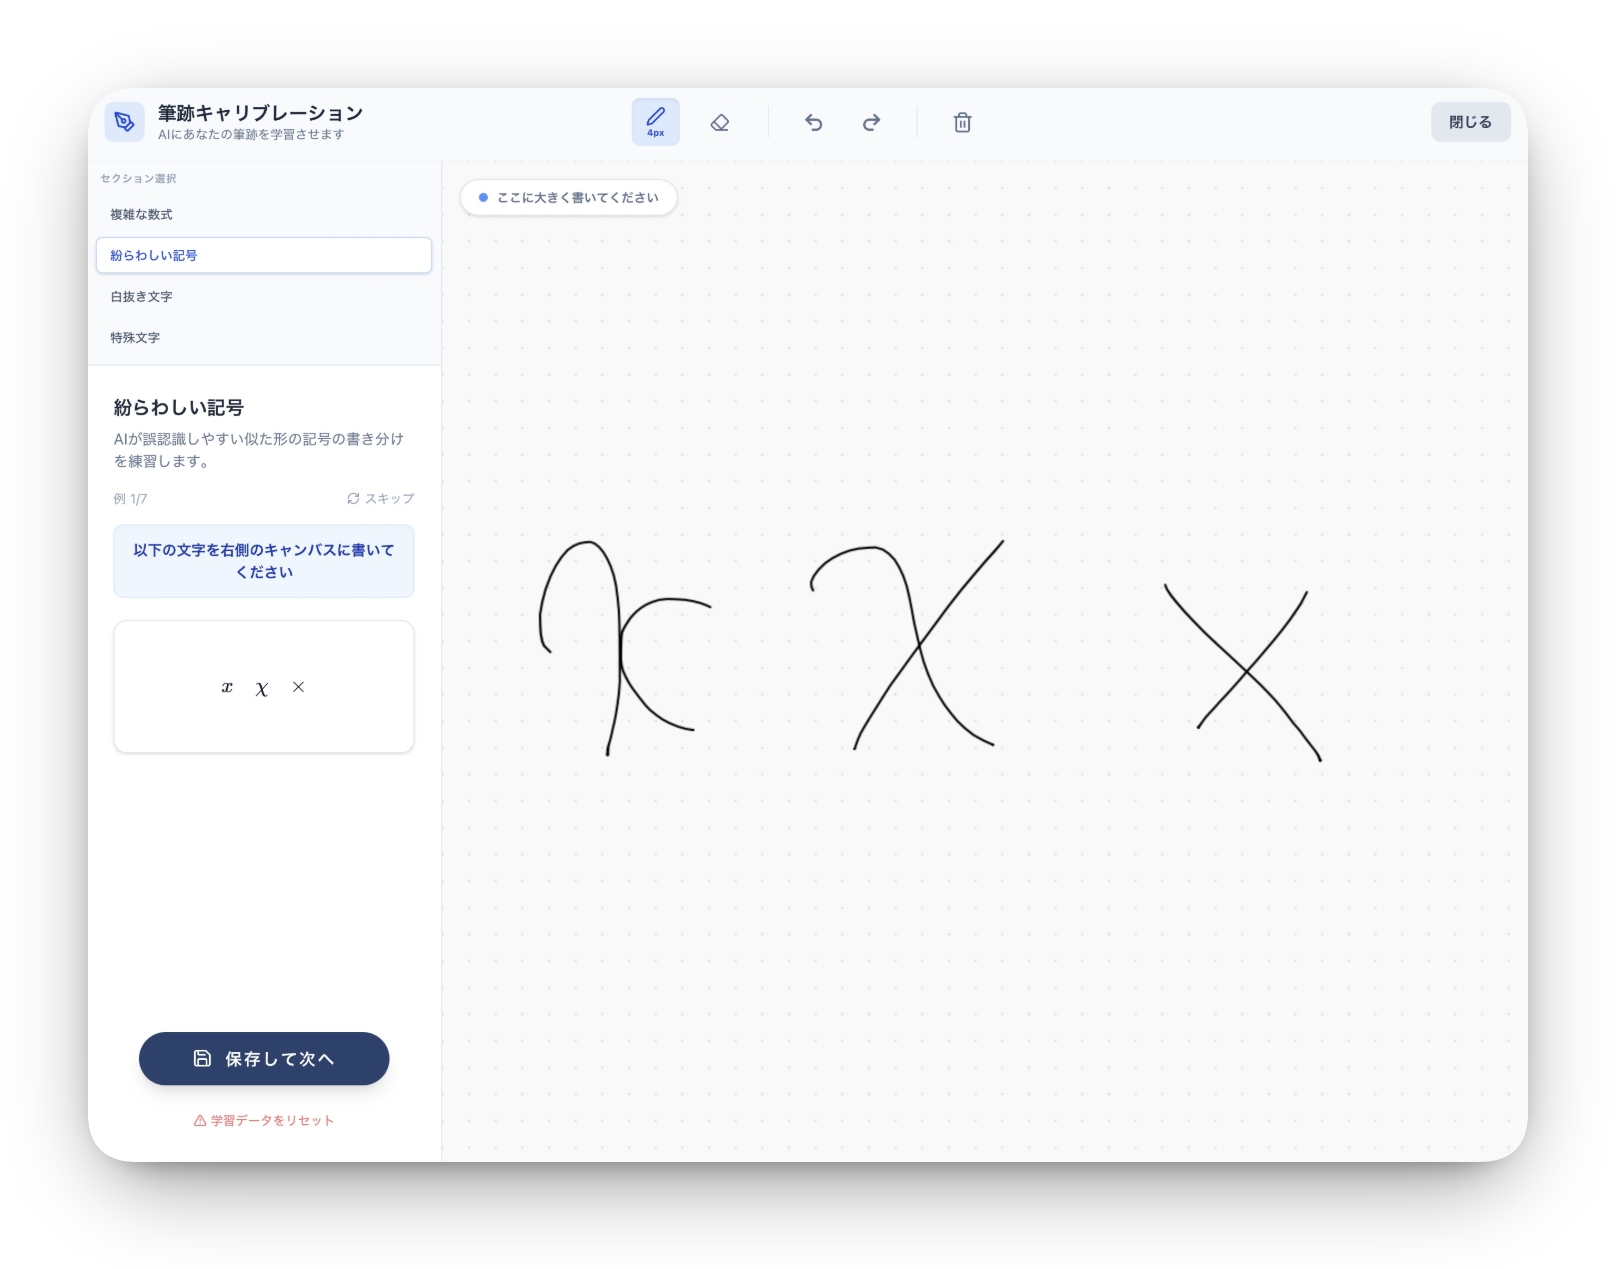
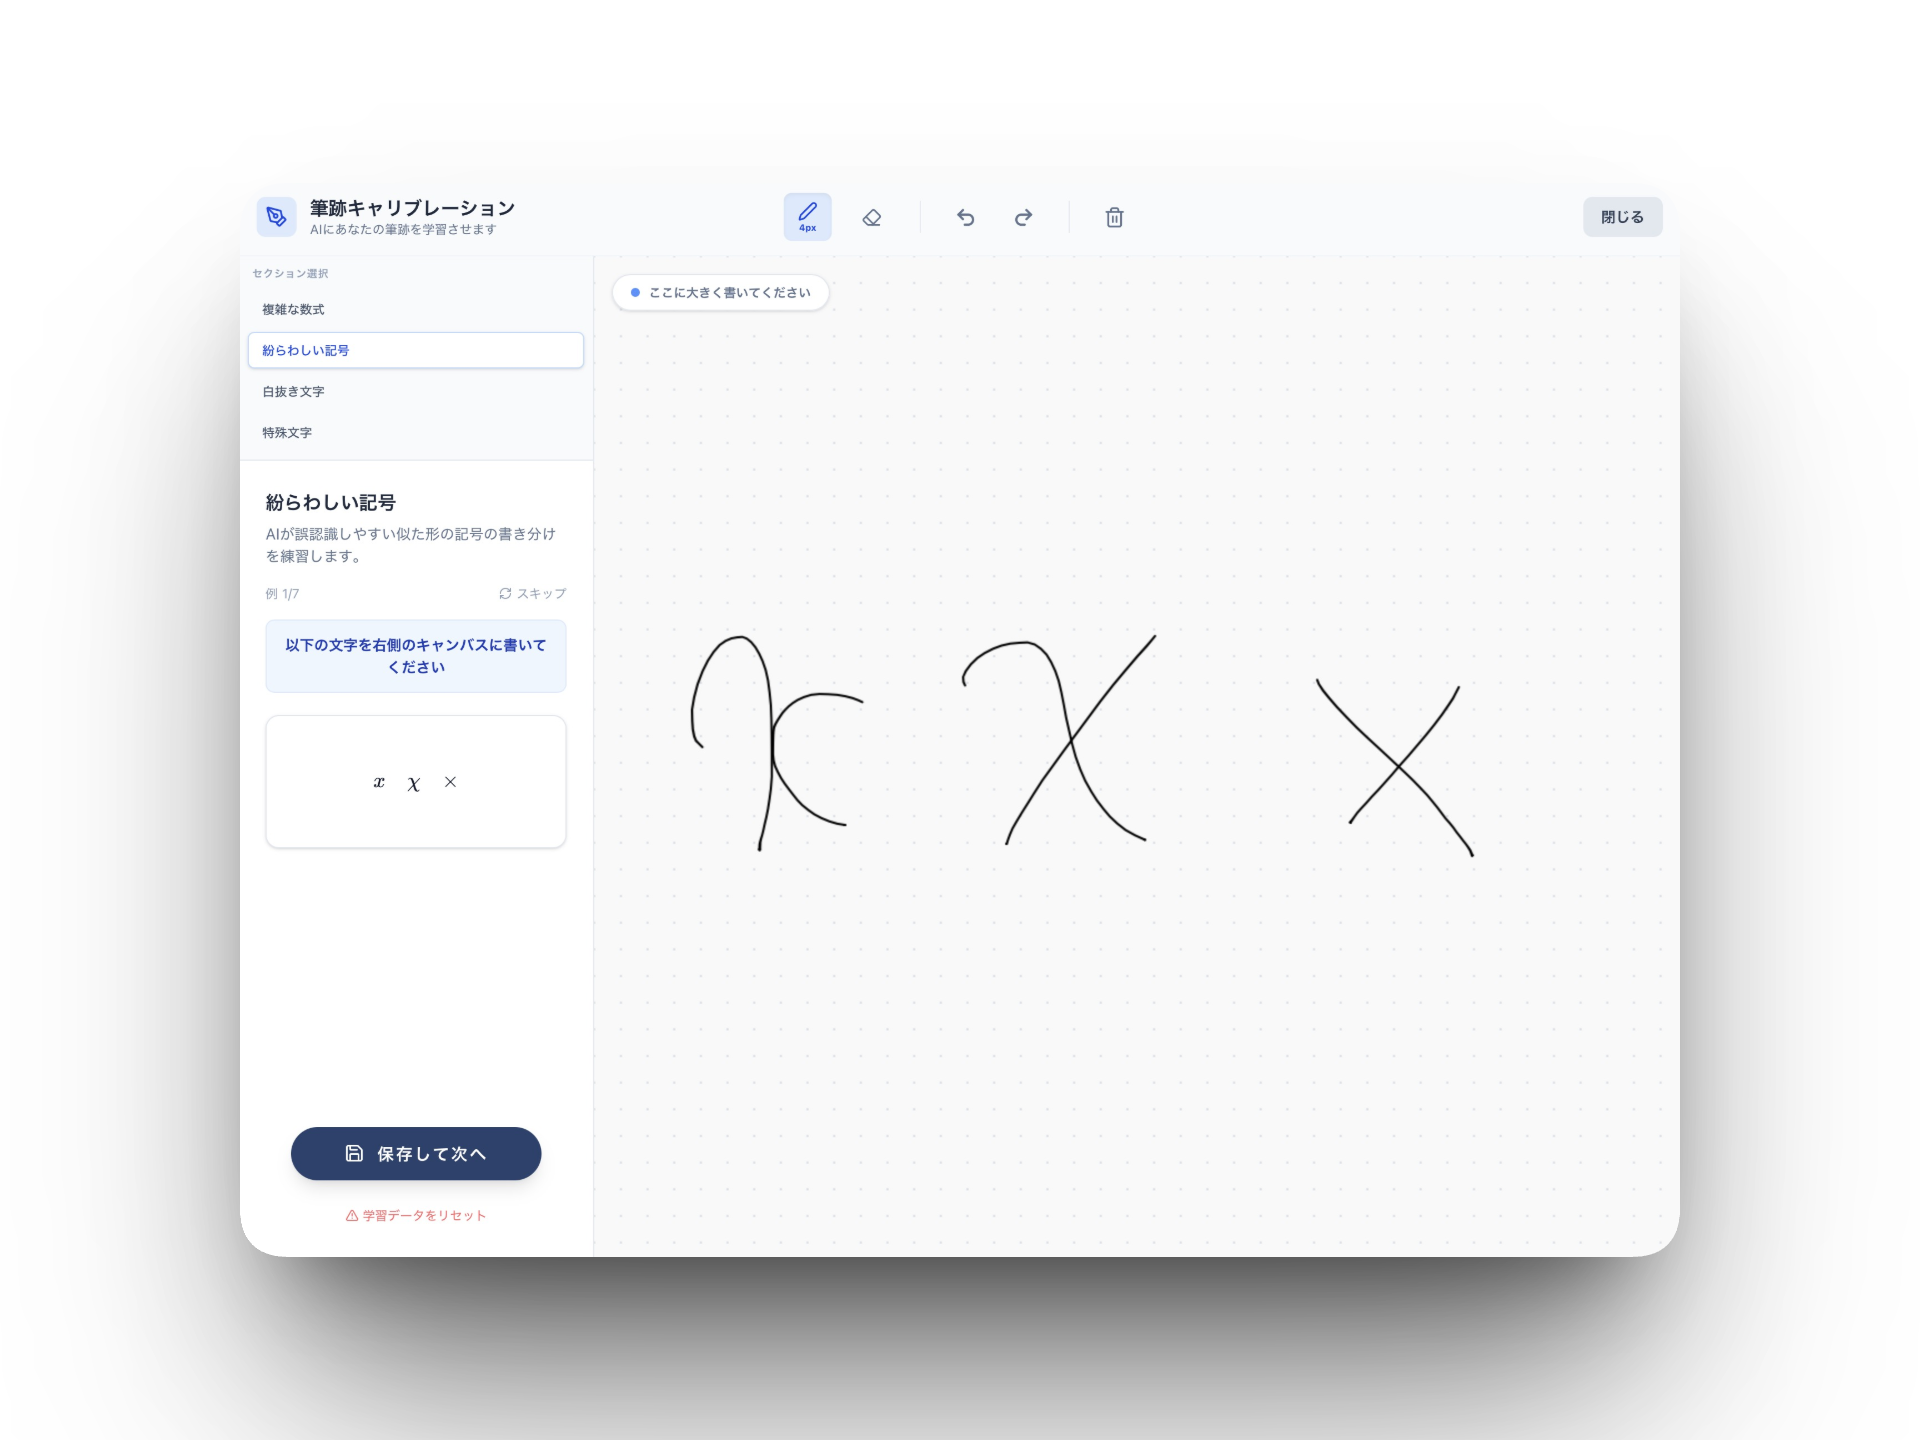
Add Privacy Policy and Contact pages with refined design, update footer

diff --git a/app/privacy/page.tsx b/app/privacy/page.tsx
@@ -1,0 +1,96 @@
+"use client";
+
+import React from "react";
+import { ArrowLeft } from "lucide-react";
+import Link from "next/link";
+
+export default function PrivacyPage() {
+    return (
+        <div className="min-h-screen bg-slate-50">
+            <div className="max-w-3xl mx-auto px-6 py-12 md:py-24">
+                <Link href="/" className="inline-flex items-center gap-2 text-slate-500 hover:text-blue-600 transition-colors mb-12 group">
+                    <ArrowLeft size={20} className="group-hover:-translate-x-1 transition-transform" />
+                    <span className="font-bold">Home</span>
+                </Link>
+
+                <div className="bg-white rounded-3xl p-8 md:p-16 shadow-sm border border-slate-100">
+                    <header className="mb-12 border-b border-slate-100 pb-8">
+                        <h1 className="text-3xl md:text-4xl font-bold text-slate-900 mb-4 tracking-tight">プライバシーポリシー</h1>
+                        <p className="text-slate-500 text-sm">最終更新日: 2026年1月24日</p>
+                    </header>
+
+                    <div className="space-y-12">
+                        <section>
+                            <p className="text-slate-700 leading-relaxed mb-6">
+                                <strong>InkTeX</strong>（以下、「当アプリ」）における、ユーザー個人情報の取り扱いについて、以下のとおりプライバシーポリシー（以下、「本ポリシー」）を定めます。
+                            </p>
+                        </section>
+
+                        <section>
+                            <h2 className="text-xl md:text-2xl font-bold text-slate-800 mb-6 flex items-center gap-3">
+                                <span className="flex items-center justify-center w-8 h-8 rounded-full bg-blue-100 text-blue-600 text-sm font-bold">1</span>
+                                個人情報の収集・利用について
+                            </h2>
+                            <p className="text-slate-600 leading-loose text-justify">
+                                当アプリは、手書き数式をLaTeXに変換する機能を提供するために、ユーザーがキャンバスに入力した画像データを一時的にサーバーへ送信し、Google Gemini APIを使用して解析を行います。
+                                これらの画像データは解析処理が完了次第速やかに破棄され、当アプリのサーバー上に永続的に保存されることはありません。
+                            </p>
+                        </section>
+
+                        <section>
+                            <h2 className="text-xl md:text-2xl font-bold text-slate-800 mb-6 flex items-center gap-3">
+                                <span className="flex items-center justify-center w-8 h-8 rounded-full bg-blue-100 text-blue-600 text-sm font-bold">2</span>
+                                アクセス解析ツールについて
+                            </h2>
+                            <p className="text-slate-600 leading-loose text-justify mb-4">
+                                当アプリでは、Googleによるアクセス解析ツール「<strong>Googleアナリティクス</strong>」を利用しています。
+                                このGoogleアナリティクスはトラフィックデータの収集のためにCookie（クッキー）を使用しています。
+                                このトラフィックデータは匿名で収集されており、個人を特定するものではありません。
+                            </p>
+                            <p className="text-slate-600 leading-loose text-justify">
+                                この機能は、Cookieを無効にすることで収集を拒否することができますので、お使いのブラウザの設定をご確認ください。
+                                Googleアナリティクスの規約に関する詳細は<a href="https://marketingplatform.google.com/about/analytics/terms/jp/" target="_blank" rel="nofollow noopener noreferrer" className="text-blue-600 hover:underline">こちら</a>をご覧ください。
+                            </p>
+                        </section>
+
+                        <section>
+                            <h2 className="text-xl md:text-2xl font-bold text-slate-800 mb-6 flex items-center gap-3">
+                                <span className="flex items-center justify-center w-8 h-8 rounded-full bg-blue-100 text-blue-600 text-sm font-bold">3</span>
+                                広告の配信について
+                            </h2>
+                            <p className="text-slate-600 leading-loose text-justify mb-4">
+                                当アプリは、第三者配信の広告サービス「<strong>Google Adsense</strong>」を利用しています。
+                                広告配信事業者は、ユーザーの興味に応じた広告を表示するためにCookieを使用することがあります。
+                                Googleアドセンスに関する詳細は<a href="https://policies.google.com/technologies/ads?hl=ja" target="_blank" rel="nofollow noopener noreferrer" className="text-blue-600 hover:underline">「Googleポリシーと規約 - 広告」</a>をご覧ください。
+                            </p>
+                            <p className="text-slate-600 leading-loose text-justify">
+                                また、当アプリは、Amazon.co.jpを宣伝しリンクすることによってサイトが紹介料を獲得できる手段を提供することを目的に設定されたアフィリエイトプログラムである、Amazonアソシエイト・プログラムの参加者です。
+                            </p>
+                        </section>
+
+                        <section>
+                            <h2 className="text-xl md:text-2xl font-bold text-slate-800 mb-6 flex items-center gap-3">
+                                <span className="flex items-center justify-center w-8 h-8 rounded-full bg-blue-100 text-blue-600 text-sm font-bold">4</span>
+                                免責事項
+                            </h2>
+                            <p className="text-slate-600 leading-loose text-justify">
+                                当アプリの変換精度は100%を保証するものではありません。生成されたLaTeXコードの利用によって生じた損害等の一切の責任を負いかねますのでご了承ください。
+                                また、当アプリからリンクやバナーなどによって他のサイトに移動された場合、移動先サイトで提供される情報、サービス等について一切の責任を負いません。
+                            </p>
+                        </section>
+
+                        <section>
+                            <h2 className="text-xl md:text-2xl font-bold text-slate-800 mb-6 flex items-center gap-3">
+                                <span className="flex items-center justify-center w-8 h-8 rounded-full bg-blue-100 text-blue-600 text-sm font-bold">5</span>
+                                お問い合わせ
+                            </h2>
+                            <p className="text-slate-600 leading-loose">
+                                本ポリシーに関するお問い合わせは、<Link href="/contact" className="text-blue-600 hover:underline font-bold">お問い合わせフォーム</Link>よりお願いいたします。
+                            </p>
+                        </section>
+                    </div>
+                </div>
+            </div>
+        </div>
+    );
+}

diff --git a/app/contact/page.tsx b/app/contact/page.tsx
@@ -1,0 +1,55 @@
+"use client";
+
+import React, { useState } from "react";
+import { ArrowLeft, Loader2 } from "lucide-react";
+import Link from "next/link";
+
+export default function ContactPage() {
+    const [isLoading, setIsLoading] = useState(true);
+
+    // Placeholder URL - User should update this
+    const GOOGLE_FORM_URL = "https://docs.google.com/forms/d/e/1FAIpQLSdkJnbelRZRHUR8i_nUekvUGK8VvQf8OR2RyL1W-Am9hy9V9w/viewform?embedded=true";
+
+    return (
+        <div className="min-h-screen bg-slate-50">
+            <div className="max-w-3xl mx-auto px-6 py-12 md:py-24">
+                <Link href="/" className="inline-flex items-center gap-2 text-slate-500 hover:text-blue-600 transition-colors mb-12 group">
+                    <ArrowLeft size={20} className="group-hover:-translate-x-1 transition-transform" />
+                    <span className="font-bold">Home</span>
+                </Link>
+
+                <div className="bg-white rounded-3xl p-6 md:p-12 shadow-sm border border-slate-100">
+                    <header className="mb-8 text-center">
+                        <h1 className="text-3xl font-bold text-slate-900 mb-2">お問い合わせ</h1>
+                        <p className="text-slate-500 text-sm mb-6">ご意見・ご要望・バグ報告などは以下のフォームよりお願いします。</p>
+                        <div className="w-16 h-1 bg-blue-500 rounded-full mx-auto opacity-20"></div>
+                    </header>
+
+                    <div className="relative w-full min-h-[600px] flex justify-center">
+                        {isLoading && (
+                            <div className="absolute inset-0 flex flex-col items-center justify-center text-slate-400 gap-3 z-0 h-[400px]">
+                                <Loader2 size={32} className="animate-spin text-blue-500" />
+                                <p className="text-sm font-medium">Loading Form...</p>
+                            </div>
+                        )}
+
+                        <iframe
+                            src={GOOGLE_FORM_URL}
+                            width="100%"
+                            height="1200"
+                            frameBorder="0"
+                            marginHeight={0}
+                            marginWidth={0}
+                            className="relative z-10 w-full"
+                            style={{ border: "none", overflow: "hidden" }}
+                            onLoad={() => setIsLoading(false)}
+                            title="Contact Form"
+                        >
+                            読み込んでいます…
+                        </iframe>
+                    </div>
+                </div>
+            </div>
+        </div>
+    );
+}

diff --git a/app/page.tsx b/app/page.tsx
@@ -11,6 +11,7 @@ import { SettingsModal } from "@/components/SettingsModal";
 import { HelpModal } from "@/components/HelpModal";
 import { useLanguage } from "@/components/contexts/LanguageContext";
 import { clsx } from "clsx";
+import Link from "next/link";
 import { useRouter } from "next/navigation";
 import { Tooltip } from "@/components/Tooltip";
 import { FeatureSection } from "@/components/FeatureSection";
@@ -342,11 +343,20 @@ export default function Home() {
             />
           </div>
 
-          <div className="text-center pt-8 text-sm text-slate-400">
-            {t("footer.copyright")}
-          </div>
         </div>
       </section>
+
+      {/* Footer with Links */}
+      <footer className="py-12 bg-slate-50 border-t border-slate-200 text-center">
+        <div className="flex justify-center gap-6 mb-8 text-sm font-medium text-slate-600">
+          <Link href="/privacy" className="hover:text-blue-600 transition-colors">プライバシーポリシー</Link>
+          <span className="text-slate-300">|</span>
+          <Link href="/contact" className="hover:text-blue-600 transition-colors">お問い合わせ</Link>
+        </div>
+        <div className="text-sm text-slate-400">
+          {t("footer.copyright")}
+        </div>
+      </footer>
 
       {/* Calibration Modal */}
       {showCalibration && (
